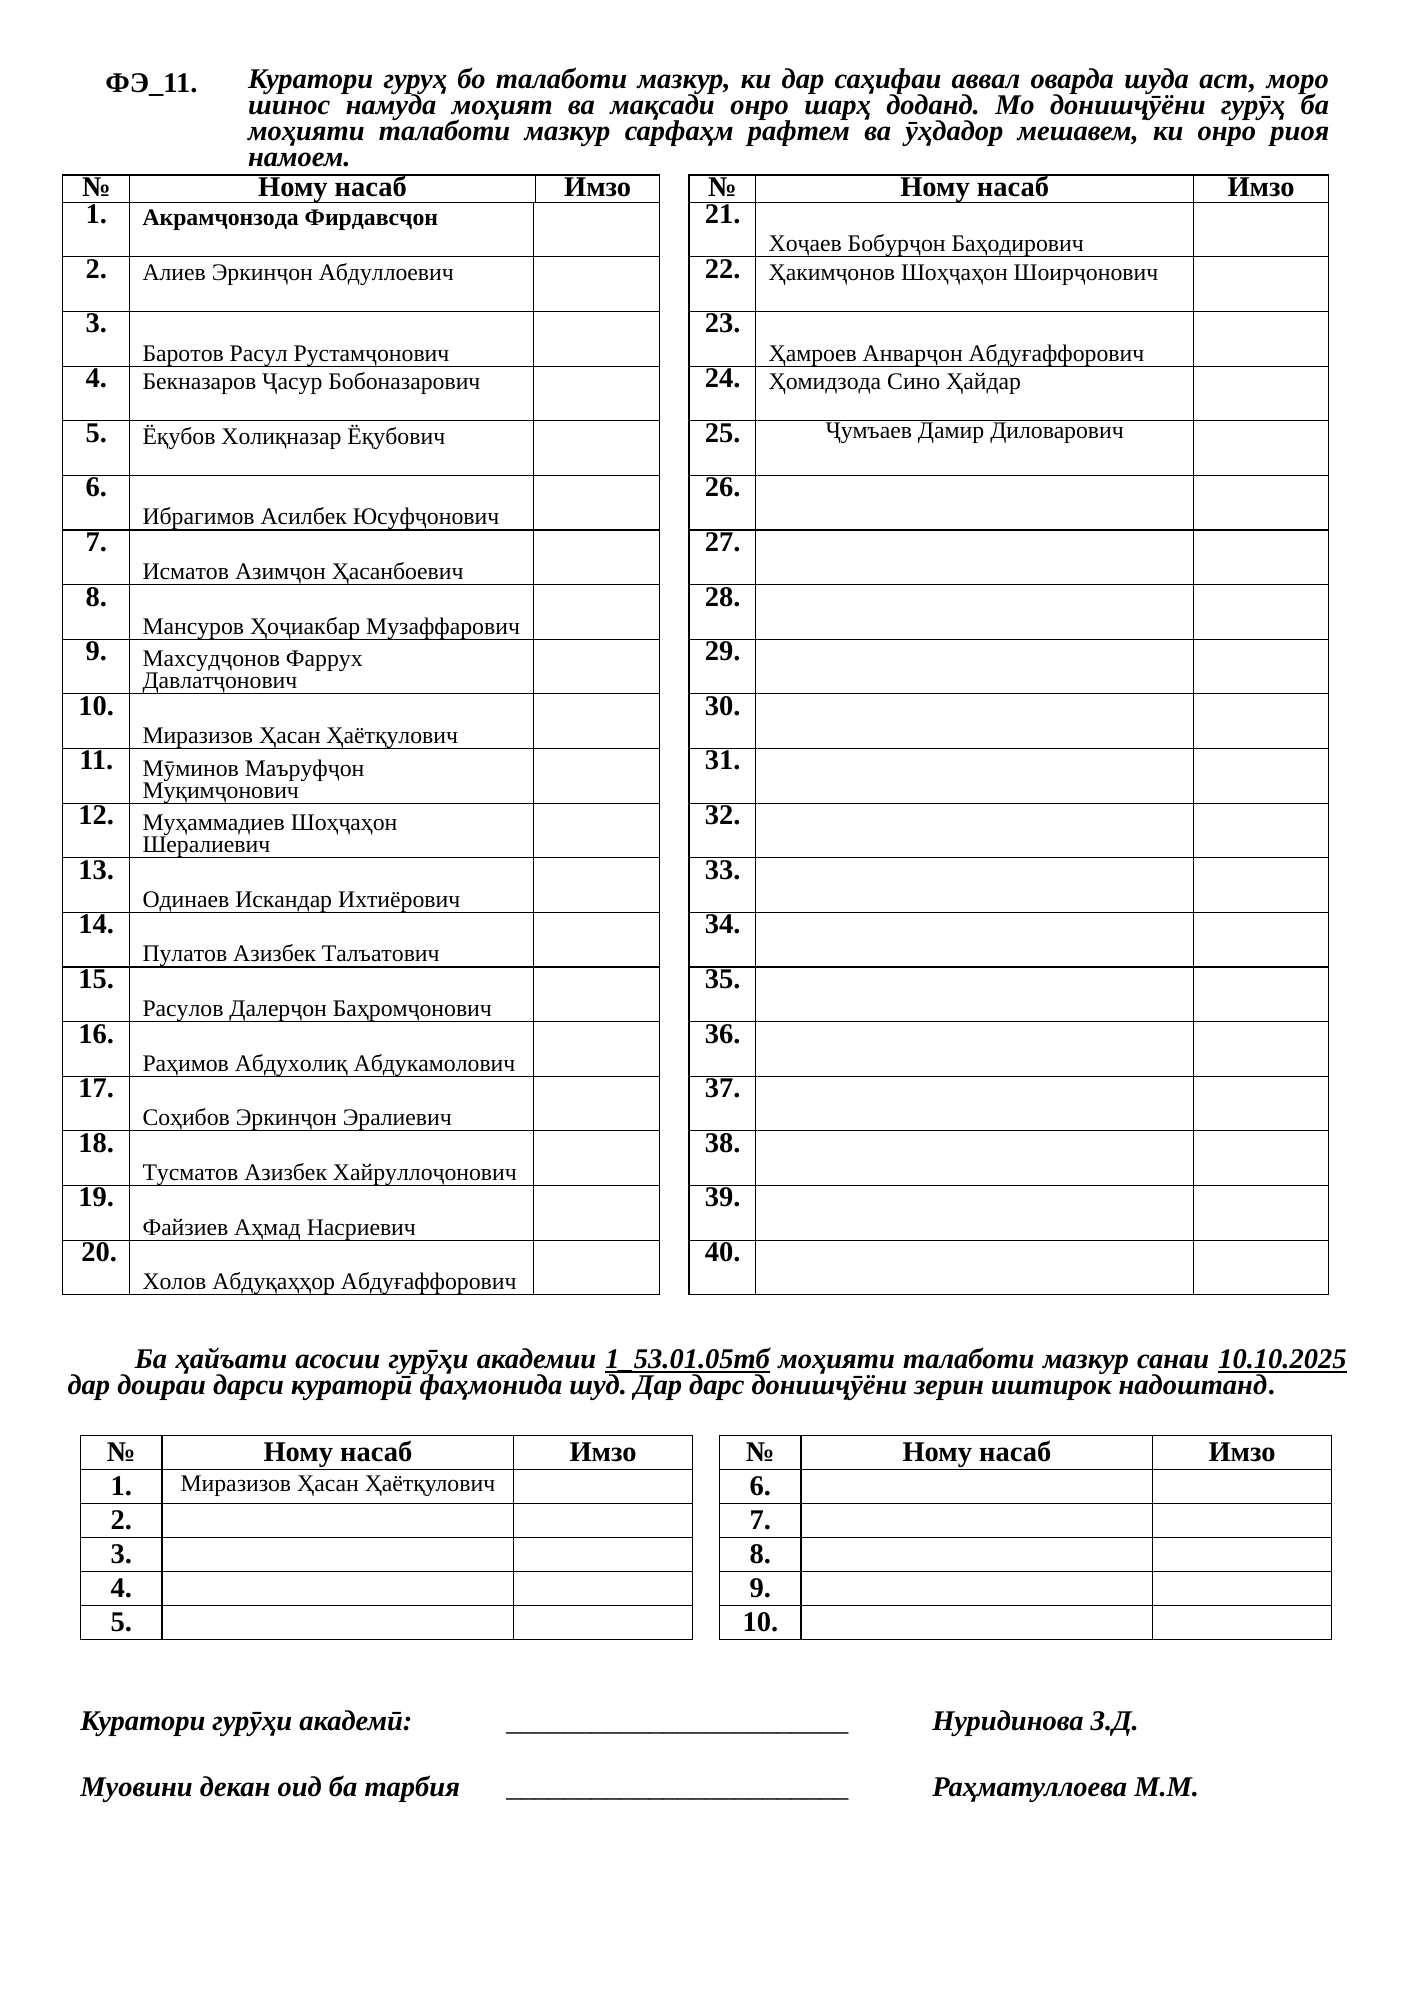
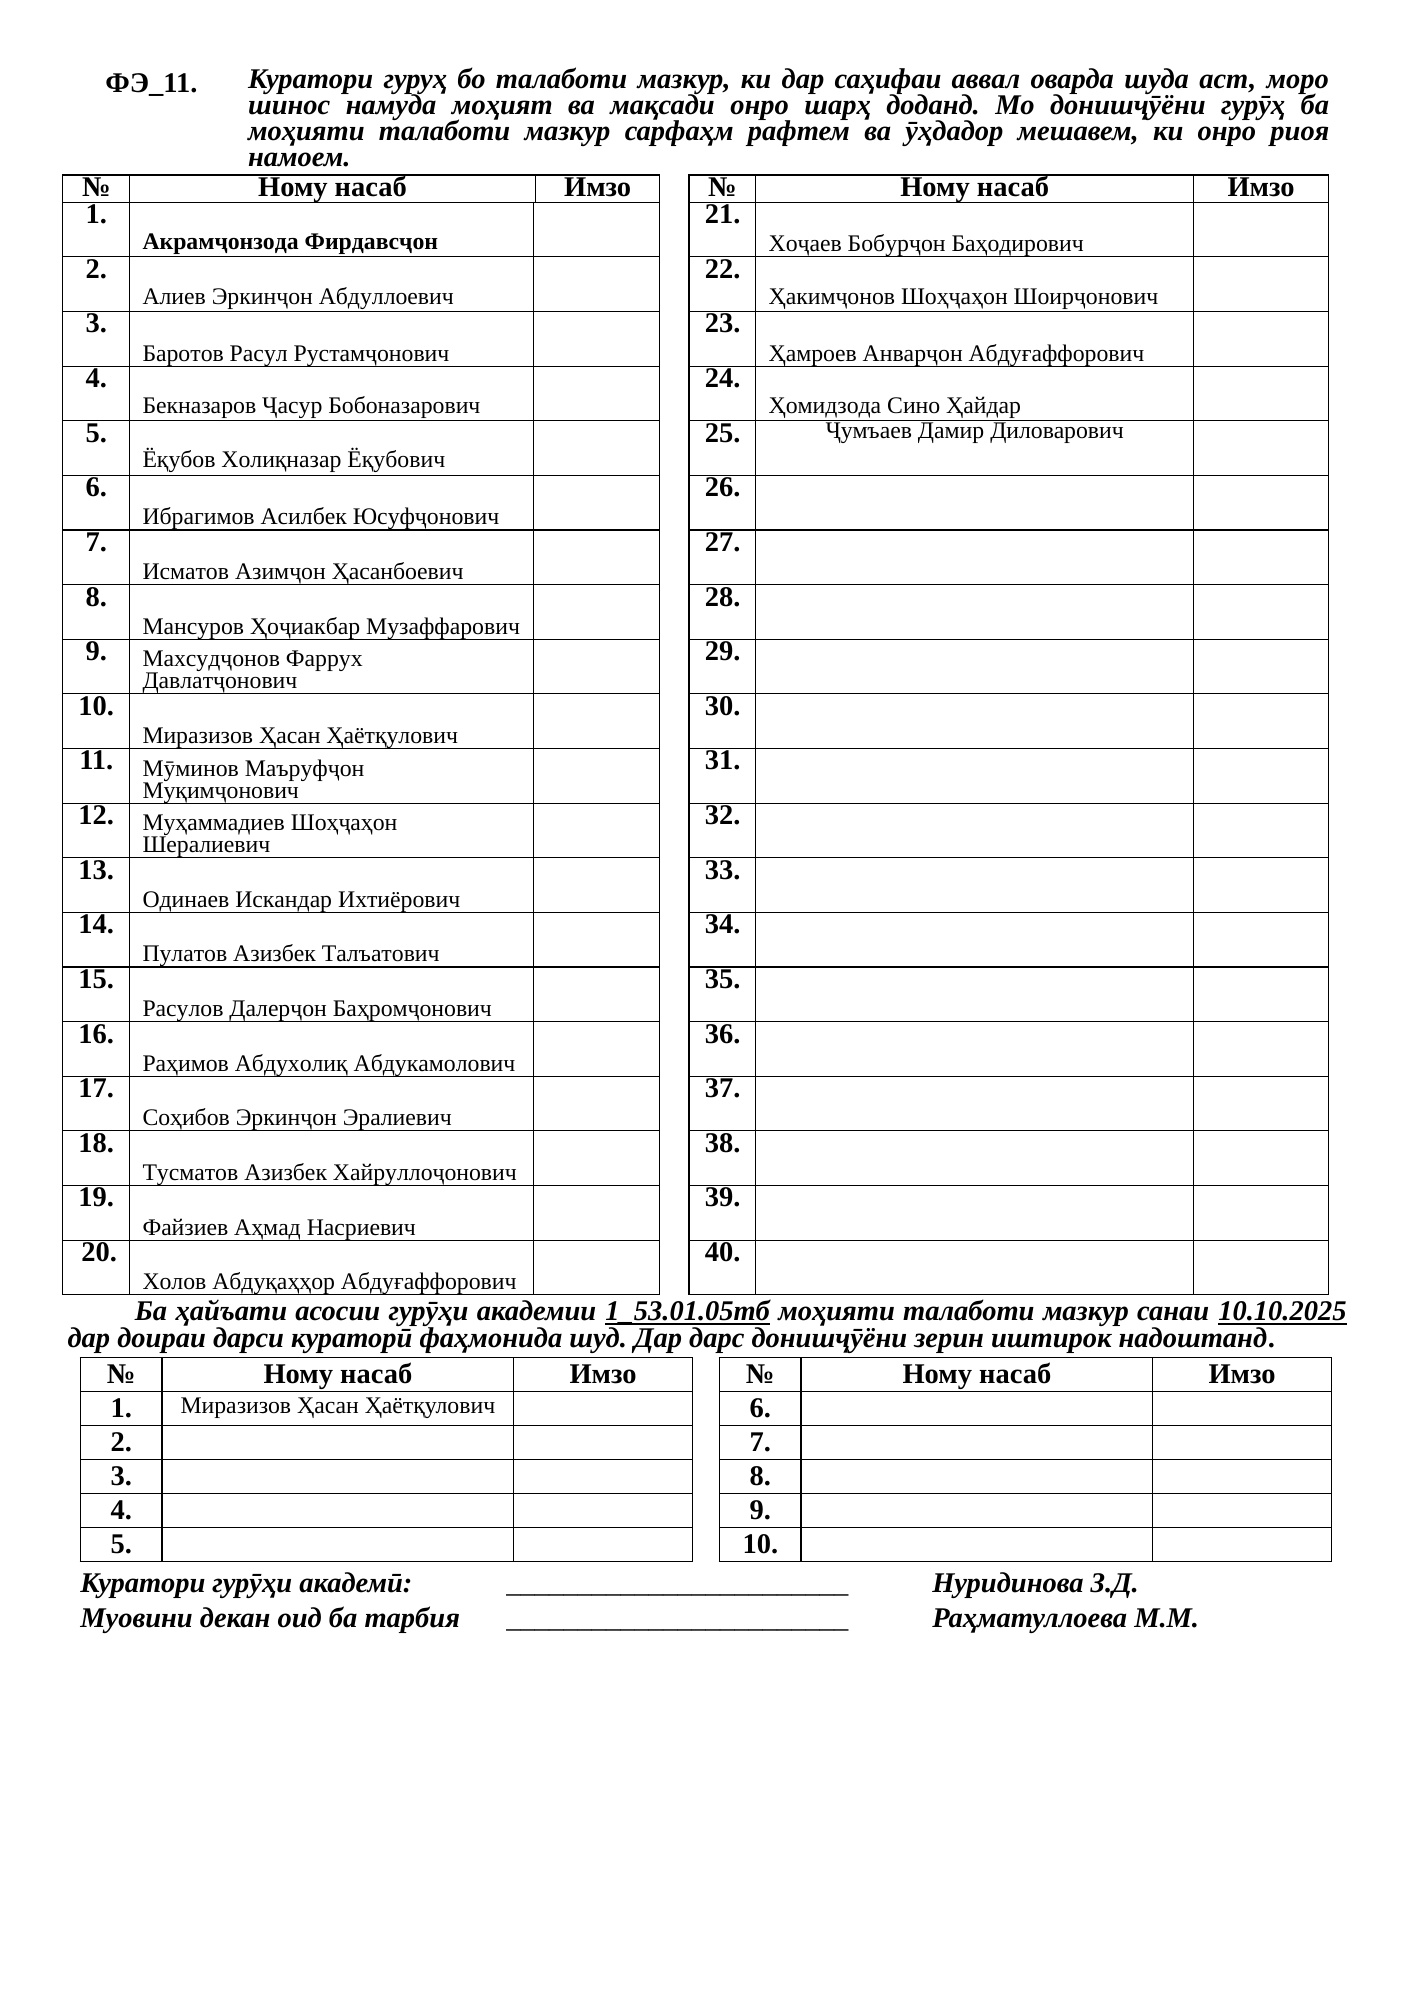
Compact empty form paragraphs to prevent signature overflow pages

diff --git a/talabot.py b/talabot.py
@@ -114,7 +114,44 @@ def render_root(data, template_bytes):
     for control in list(root.iter(W + 'sdt')):
         tag = control.find(W + 'sdtPr/' + W + 'tag').get(W + 'val')
         fill_slot(control, slots[tag], formats.get(tag))
+    compact_document_tail(root)
     return root
+
+
+def compact_document_tail(root):
+    """Keep Word's final table paragraph from overflowing onto an empty page."""
+    for paragraph in root.iter(W + 'p'):
+        if ''.join(paragraph.itertext()).strip() or any(paragraph.find('.//' + W + tag) is not None for tag in ('br', 'drawing', 'pict', 'pageBreakBefore')):
+            continue
+        props = paragraph.find(W + 'pPr')
+        if props is None:
+            props = etree.Element(W + 'pPr'); paragraph.insert(0, props)
+        spacing = props.find(W + 'spacing')
+        if spacing is None: spacing = etree.SubElement(props, W + 'spacing')
+        for key, value in [('before', '0'), ('after', '0'), ('line', '20'), ('lineRule', 'exact')]:
+            spacing.set(W + key, value)
+        font = props.find(W + 'rPr')
+        if font is None: font = etree.SubElement(props, W + 'rPr')
+        size = font.find(W + 'sz')
+        if size is None: size = etree.SubElement(font, W + 'sz')
+        size.set(W + 'val', '2')
+    body = root.find(W + 'body')
+    section = body.find(W + 'sectPr')
+    position = body.index(section) if section is not None else len(body)
+    while position and body[position - 1].tag == W + 'p':
+        paragraph = body[position - 1]
+        if ''.join(paragraph.itertext()).strip() or paragraph.find('.//' + W + 'br') is not None:
+            break
+        body.remove(paragraph)
+        position -= 1
+    paragraph = etree.Element(W + 'p')
+    props = etree.SubElement(paragraph, W + 'pPr')
+    spacing = etree.SubElement(props, W + 'spacing')
+    for key, value in [('before', '0'), ('after', '0'), ('line', '20'), ('lineRule', 'exact')]:
+        spacing.set(W + key, value)
+    font = etree.SubElement(props, W + 'rPr')
+    etree.SubElement(font, W + 'sz').set(W + 'val', '2')
+    body.insert(position, paragraph)
 
 
 def write_package(root, template_bytes):
